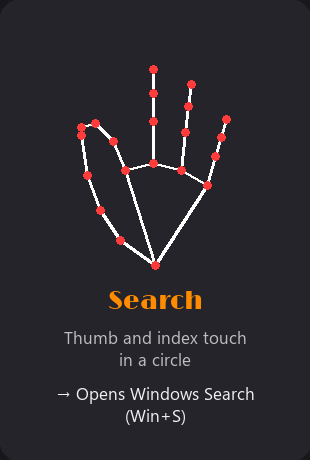
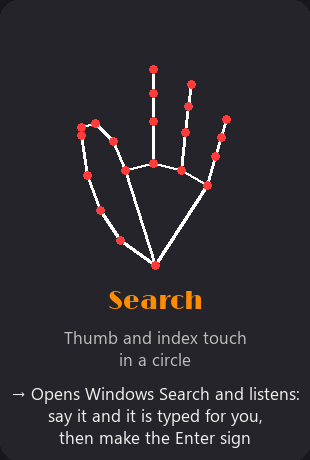
Add offline voice search: Search gesture listens and types what you say (Whisper large-v3)

Changed region(s): [[0.0581, 0.8217, 0.9581, 0.9739]]

diff --git a/src/voice.py b/src/voice.py
@@ -1,0 +1,230 @@
+"""Voice typing: listen on the microphone, transcribe offline with Whisper, type the text.
+
+Uses faster-whisper with the large-v3 model on the GPU (falls back to the CPU).
+Nothing leaves the PC.
+"""
+import ctypes
+import importlib.util
+import os
+import queue
+import sys
+import threading
+import time
+import types
+
+import numpy as np
+import sounddevice as sd
+
+# PyAV is only used by faster-whisper to decode audio *files*. We pass raw microphone
+# arrays, so a stub is enough (and avoids a native DLL that Windows may block).
+try:
+    import av  # noqa: F401
+except ImportError:
+    sys.modules["av"] = types.ModuleType("av")
+
+SAMPLE_RATE = 16000
+MODEL_NAME = "large-v3"
+LANGUAGE = "en"
+CHUNK = 480  # 30 ms
+MIN_THRESHOLD = 0.012  # minimum RMS that counts as speech
+NO_SPEECH_TIMEOUT_S = 8.0  # give up if nothing is said
+END_SILENCE_S = 1.0  # stop after this much silence once you have spoken
+MAX_RECORD_S = 20.0
+PRE_ROLL_S = 0.3
+TYPE_DELAY_S = 0.8  # wait for the search box to be ready before typing
+
+# Whisper sometimes "hears" these in silence.
+HALLUCINATIONS = {"", "you", "thank you", "thanks for watching", "bye", "thank you for watching"}
+
+
+def _add_cuda_dlls():
+    """Let CTranslate2 find cuBLAS/cuDNN, which ship inside the PyTorch wheel."""
+    spec = importlib.util.find_spec("torch")
+    if not spec or not spec.submodule_search_locations:
+        return
+    lib = os.path.join(list(spec.submodule_search_locations)[0], "lib")
+    if os.path.isdir(lib):
+        os.add_dll_directory(lib)
+        os.environ["PATH"] = lib + os.pathsep + os.environ.get("PATH", "")
+
+
+# --- typing text into the focused window (Win32 SendInput, unicode) -------------------
+
+ULONG_PTR = ctypes.c_size_t
+
+
+class _KEYBDINPUT(ctypes.Structure):
+    _fields_ = [("wVk", ctypes.c_ushort), ("wScan", ctypes.c_ushort),
+                ("dwFlags", ctypes.c_ulong), ("time", ctypes.c_ulong),
+                ("dwExtraInfo", ULONG_PTR)]
+
+
+class _MOUSEINPUT(ctypes.Structure):
+    _fields_ = [("dx", ctypes.c_long), ("dy", ctypes.c_long), ("mouseData", ctypes.c_ulong),
+                ("dwFlags", ctypes.c_ulong), ("time", ctypes.c_ulong),
+                ("dwExtraInfo", ULONG_PTR)]
+
+
+class _HARDWAREINPUT(ctypes.Structure):
+    _fields_ = [("uMsg", ctypes.c_ulong), ("wParamL", ctypes.c_ushort),
+                ("wParamH", ctypes.c_ushort)]
+
+
+class _INPUTUNION(ctypes.Union):
+    _fields_ = [("ki", _KEYBDINPUT), ("mi", _MOUSEINPUT), ("hi", _HARDWAREINPUT)]
+
+
+class _INPUT(ctypes.Structure):
+    _anonymous_ = ("u",)
+    _fields_ = [("type", ctypes.c_ulong), ("u", _INPUTUNION)]
+
+
+def type_text(text):
+    """Type text into whatever window has the keyboard focus."""
+    events = []
+    data = text.encode("utf-16-le")
+    for i in range(0, len(data), 2):
+        code = int.from_bytes(data[i:i + 2], "little")
+        for flags in (0x0004, 0x0004 | 0x0002):  # KEYEVENTF_UNICODE, then key up
+            ev = _INPUT(type=1)
+            ev.ki = _KEYBDINPUT(0, code, flags, 0, 0)
+            events.append(ev)
+    if events:
+        array = (_INPUT * len(events))(*events)
+        ctypes.windll.user32.SendInput(len(events), array, ctypes.sizeof(_INPUT))
+
+
+# --- the voice typer -------------------------------------------------------------------
+
+class VoiceTyper:
+    def __init__(self):
+        self._model = None
+        self._model_error = None
+        self._model_ready = threading.Event()
+        self._busy = threading.Lock()
+        self._state = "idle"  # idle | listening | thinking
+        self._typed_until = 0.0
+        self.device = None
+
+    # Loading the 3 GB model takes several seconds, so do it in the background.
+    def preload(self):
+        threading.Thread(target=self._load, daemon=True).start()
+
+    def _load(self):
+        try:
+            _add_cuda_dlls()
+            from faster_whisper import WhisperModel
+            try:
+                self._model = WhisperModel(MODEL_NAME, device="cuda", compute_type="float16")
+                self.device = "GPU"
+            except Exception as gpu_error:  # no usable GPU: slower, but still works
+                print(f"Whisper could not use the GPU ({gpu_error}); using the CPU.")
+                self._model = WhisperModel(MODEL_NAME, device="cpu", compute_type="int8")
+                self.device = "CPU"
+            # The first transcription is slow (GPU warm-up), so do a throwaway one now.
+            list(self._model.transcribe(np.zeros(SAMPLE_RATE, dtype=np.float32),
+                                        language=LANGUAGE, vad_filter=False)[0])
+            print(f"Voice model ready ({MODEL_NAME} on {self.device}).")
+        except Exception as error:
+            self._model_error = error
+            print(f"Voice typing is unavailable: {error}")
+        finally:
+            self._model_ready.set()
+
+    def close(self):
+        # Free the GPU model explicitly so the interpreter exits cleanly.
+        self._model = None
+
+    @property
+    def label(self):
+        """Text for the on-screen label, or "" when there is nothing to show."""
+        if self._state == "listening":
+            return "Listening..."
+        if self._state == "thinking":
+            return "Thinking..."
+        if time.time() < self._typed_until:
+            return "Typed"
+        return ""
+
+    def listen_and_type(self):
+        """Record one phrase, transcribe it and type it. Runs in the background."""
+        if not self._busy.acquire(blocking=False):
+            return  # already listening
+        threading.Thread(target=self._run, daemon=True).start()
+
+    def _run(self):
+        started = time.time()
+        try:
+            self._state = "listening"
+            audio = self.record()
+            if audio is None:
+                return
+            self._state = "thinking"
+            text = self.transcribe(audio)
+            if text:
+                wait = TYPE_DELAY_S - (time.time() - started)
+                if wait > 0:
+                    time.sleep(wait)
+                type_text(text)
+                self._typed_until = time.time() + 1.0
+        except Exception as error:
+            print(f"Voice typing failed: {error}")
+        finally:
+            self._state = "idle"
+            self._busy.release()
+
+    def record(self):
+        """Record from the default microphone until you stop talking. None if silent."""
+        blocks = queue.Queue()
+
+        def callback(indata, frames, time_info, status):
+            blocks.put(indata[:, 0].copy())
+
+        pre_roll = []
+        speech = []
+        noise = []
+        threshold = MIN_THRESHOLD
+        speaking = False
+        loud_run = 0
+        silence = 0.0
+        start = time.time()
+        with sd.InputStream(samplerate=SAMPLE_RATE, channels=1, dtype="float32",
+                            blocksize=CHUNK, callback=callback):
+            while True:
+                try:
+                    block = blocks.get(timeout=1.0)
+                except queue.Empty:
+                    return None
+                rms = float(np.sqrt(np.mean(block ** 2)))
+                elapsed = time.time() - start
+                if elapsed < 0.4:  # learn the background noise level first
+                    noise.append(rms)
+                    threshold = max(MIN_THRESHOLD, 3 * float(np.mean(noise)))
+                    continue
+                if not speaking:
+                    pre_roll.append(block)
+                    pre_roll = pre_roll[-int(PRE_ROLL_S * SAMPLE_RATE / CHUNK):]
+                    loud_run = loud_run + 1 if rms > threshold else 0
+                    if loud_run >= 3:
+                        speaking = True
+                        speech = list(pre_roll)
+                    elif elapsed > NO_SPEECH_TIMEOUT_S:
+                        return None
+                else:
+                    speech.append(block)
+                    silence = 0.0 if rms > threshold else silence + CHUNK / SAMPLE_RATE
+                    if silence >= END_SILENCE_S or elapsed > MAX_RECORD_S:
+                        break
+        return np.concatenate(speech)
+
+    def transcribe(self, audio):
+        """Turn a 16 kHz mono float32 array into text ("" if nothing was said)."""
+        self._model_ready.wait()
+        if self._model is None:
+            return ""
+        segments, _ = self._model.transcribe(
+            audio, language=LANGUAGE, beam_size=5, vad_filter=True,
+            condition_on_previous_text=False, temperature=0.0)
+        text = " ".join(s.text.strip() for s in segments).strip()
+        text = text.rstrip(".!?,;: ")  # a search box does not need the full stop
+        return "" if text.lower() in HALLUCINATIONS else text

diff --git a/src/camera.py b/src/camera.py
@@ -10,6 +10,7 @@ import numpy as np
 from PIL import Image, ImageDraw, ImageFont
 
 from help_screen import build_help_image
+from voice import VoiceTyper
 from mediapipe.tasks.python import BaseOptions, vision
 
 MODEL_PATH = os.path.join(os.path.dirname(__file__), "hand_landmarker.task")
@@ -435,6 +436,8 @@ def main():
     help_open = False
     help_armed = True
     help_since = None
+    voice = VoiceTyper()
+    voice.preload()  # loads the speech model in the background
     timestamp_ms = 0
     while True:
         ok, frame = cap.read()
@@ -602,6 +605,7 @@ def main():
             search_since = search_since or now
             if search_armed and now - search_since >= SEARCH_HOLD_S:
                 open_windows_search()
+                voice.listen_and_type()  # speak your search; it is typed for you
                 search_armed = False
         else:
             search_since = None
@@ -610,6 +614,8 @@ def main():
         gesture = ""
         if middle_finger:
             gesture = "Fuck you too"
+        elif voice.label:
+            gesture = voice.label
         elif now < enter_until:
             gesture = "Enter"
         elif now < escape_until:
@@ -654,6 +660,7 @@ def main():
                 and not camera_window_minimized()):
             break
 
+    voice.close()
     landmarker.close()
     cap.release()
     cv2.destroyAllWindows()

diff --git a/src/help_screen.py b/src/help_screen.py
@@ -190,7 +190,7 @@ def build_help_image():
          "Left to right: next app\nRight to left: previous app\nIn Task View: moves the pick",
          swipe, fonts)
     tile(draw, 0, 1, "Search", "Thumb and index touch\nin a circle",
-         "Opens Windows Search\n(Win+S)", single(SEARCH_HAND), fonts)
+         "Opens Windows Search and listens:\nsay it and it is typed for you,\nthen make the Enter sign", single(SEARCH_HAND), fonts)
     tile(draw, 1, 1, "Middle Finger", "Only the middle finger up",
          "Shows a rude reply\non screen", single(MIDDLE_HAND), fonts)
     tile(draw, 2, 1, "Help", "Thumb, index and pinky up\non both hands",

diff --git a/README.md b/README.md
@@ -14,12 +14,23 @@ Windows only (it sends Windows keyboard shortcuts and controls windows).
 You need Python 3 and a webcam.
 
 ```bash
-pip install opencv-python mediapipe pillow numpy
+pip install opencv-python mediapipe pillow numpy faster-whisper
 python src/camera.py
 ```
 
 On the first run the app downloads Google's hand model (`hand_landmarker.task`, about 8 MB) into `src/`.
 
+### Voice search
+
+The Search gesture also listens to your microphone. Say your search, it stops when you pause, and
+the text is typed into the Windows Search box. Then make the Enter sign to run it. Speech recognition
+is [Whisper](https://github.com/SYSTRAN/faster-whisper) (`large-v3`), running **offline on your PC**:
+nothing you say is uploaded. It is English only.
+
+The first run downloads the model (about 3 GB, cached in your Hugging Face cache, not in this repo).
+It runs on an NVIDIA GPU with about 4 GB free memory (a phrase takes about a second); without a GPU it
+falls back to the CPU, which works but is much slower. The camera window shows "Listening...",
+"Thinking..." and "Typed" while it works.
 If you get an error about `cv2.imshow` not being implemented, you have `opencv-python-headless`
 installed as well. Uninstall both and reinstall only `opencv-python`.
 
@@ -32,7 +43,7 @@ The camera window is mirrored and shows your hand skeleton. The name of the gest
 | Open Palm | Palm to the camera, fingers spread | Shows the label only |
 | Double Open Palm | Both palms to the camera | Shows the label only |
 | Swipe | Open hand moved sideways (or a quick slap) | Left to right: next app (Alt+Tab). Right to left: previous app. In Task View: moves the selection |
-| Search | Thumb and index fingertip touch in a circle | Opens Windows Search (Win+S) |
+| Search | Thumb and index fingertip touch in a circle | Opens Windows Search (Win+S) and listens to your microphone: say what you want, it is typed for you, then make the Enter sign |
 | Middle Finger | Only the middle finger up | Shows a rude reply |
 | Help | Thumb, index and pinky up on both hands | Opens the Help window with all gestures |
 | Fist | Hold a closed fist | Opens Task View (Win+Tab) |
@@ -90,6 +101,7 @@ The pictures are the same ones shown in the app's Help window (make the Help sig
 ## Files
 
 - `src/camera.py`: camera loop, gesture detection and actions
+- `src/voice.py`: microphone listening, offline speech recognition and typing the text
 - `src/help_screen.py`: draws the Help window
 - `tools/make_readme_images.py`: regenerates the images in `docs/` (`python tools/make_readme_images.py`)
 - `src/Limelight-Regular.ttf`: font used for the on-screen text (Google Fonts, SIL Open Font License)
